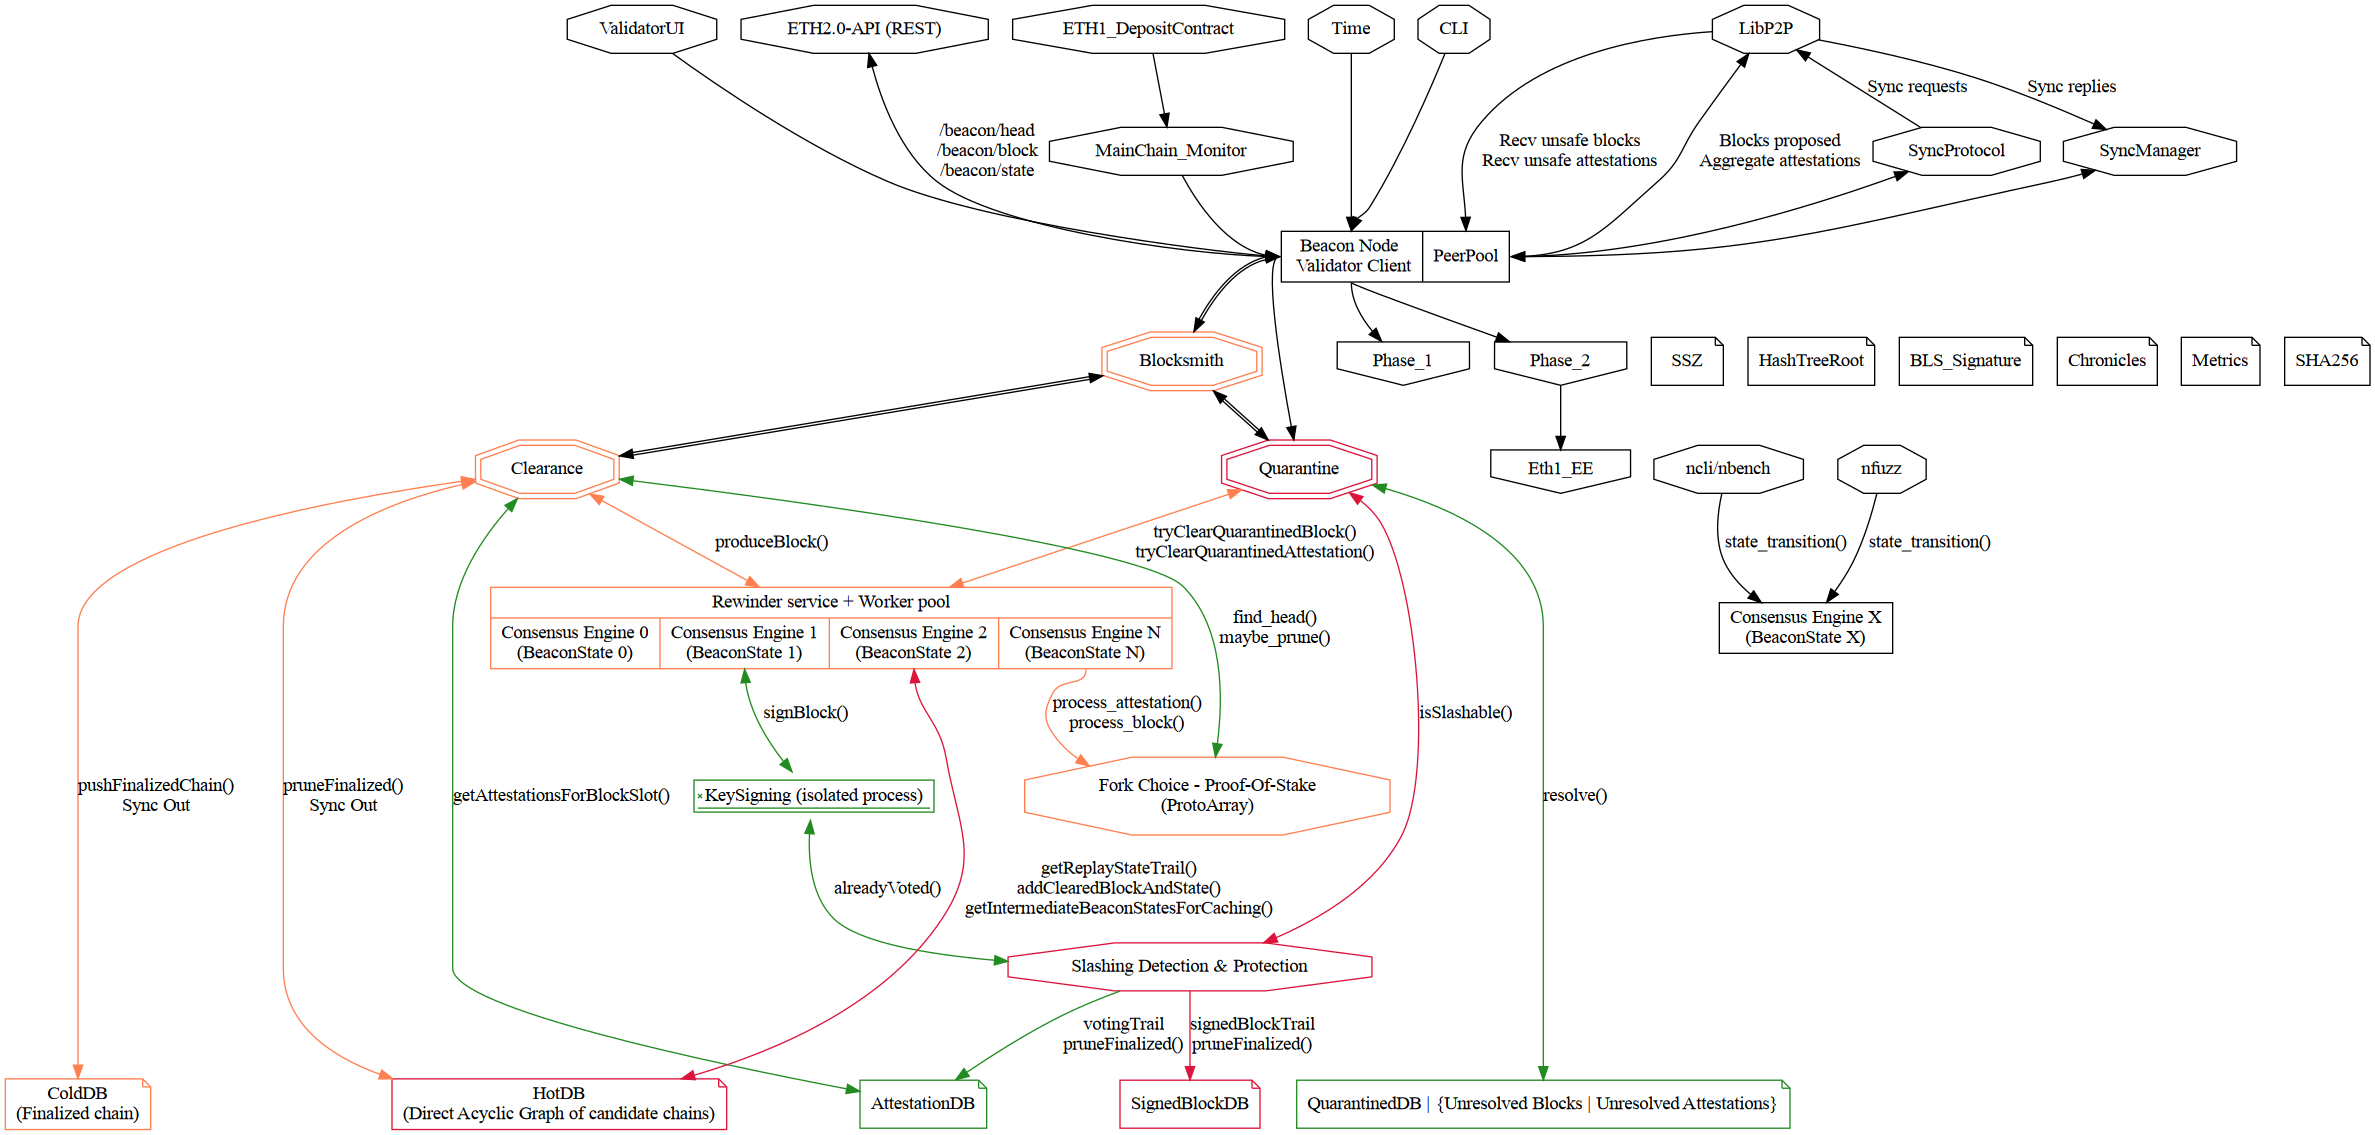
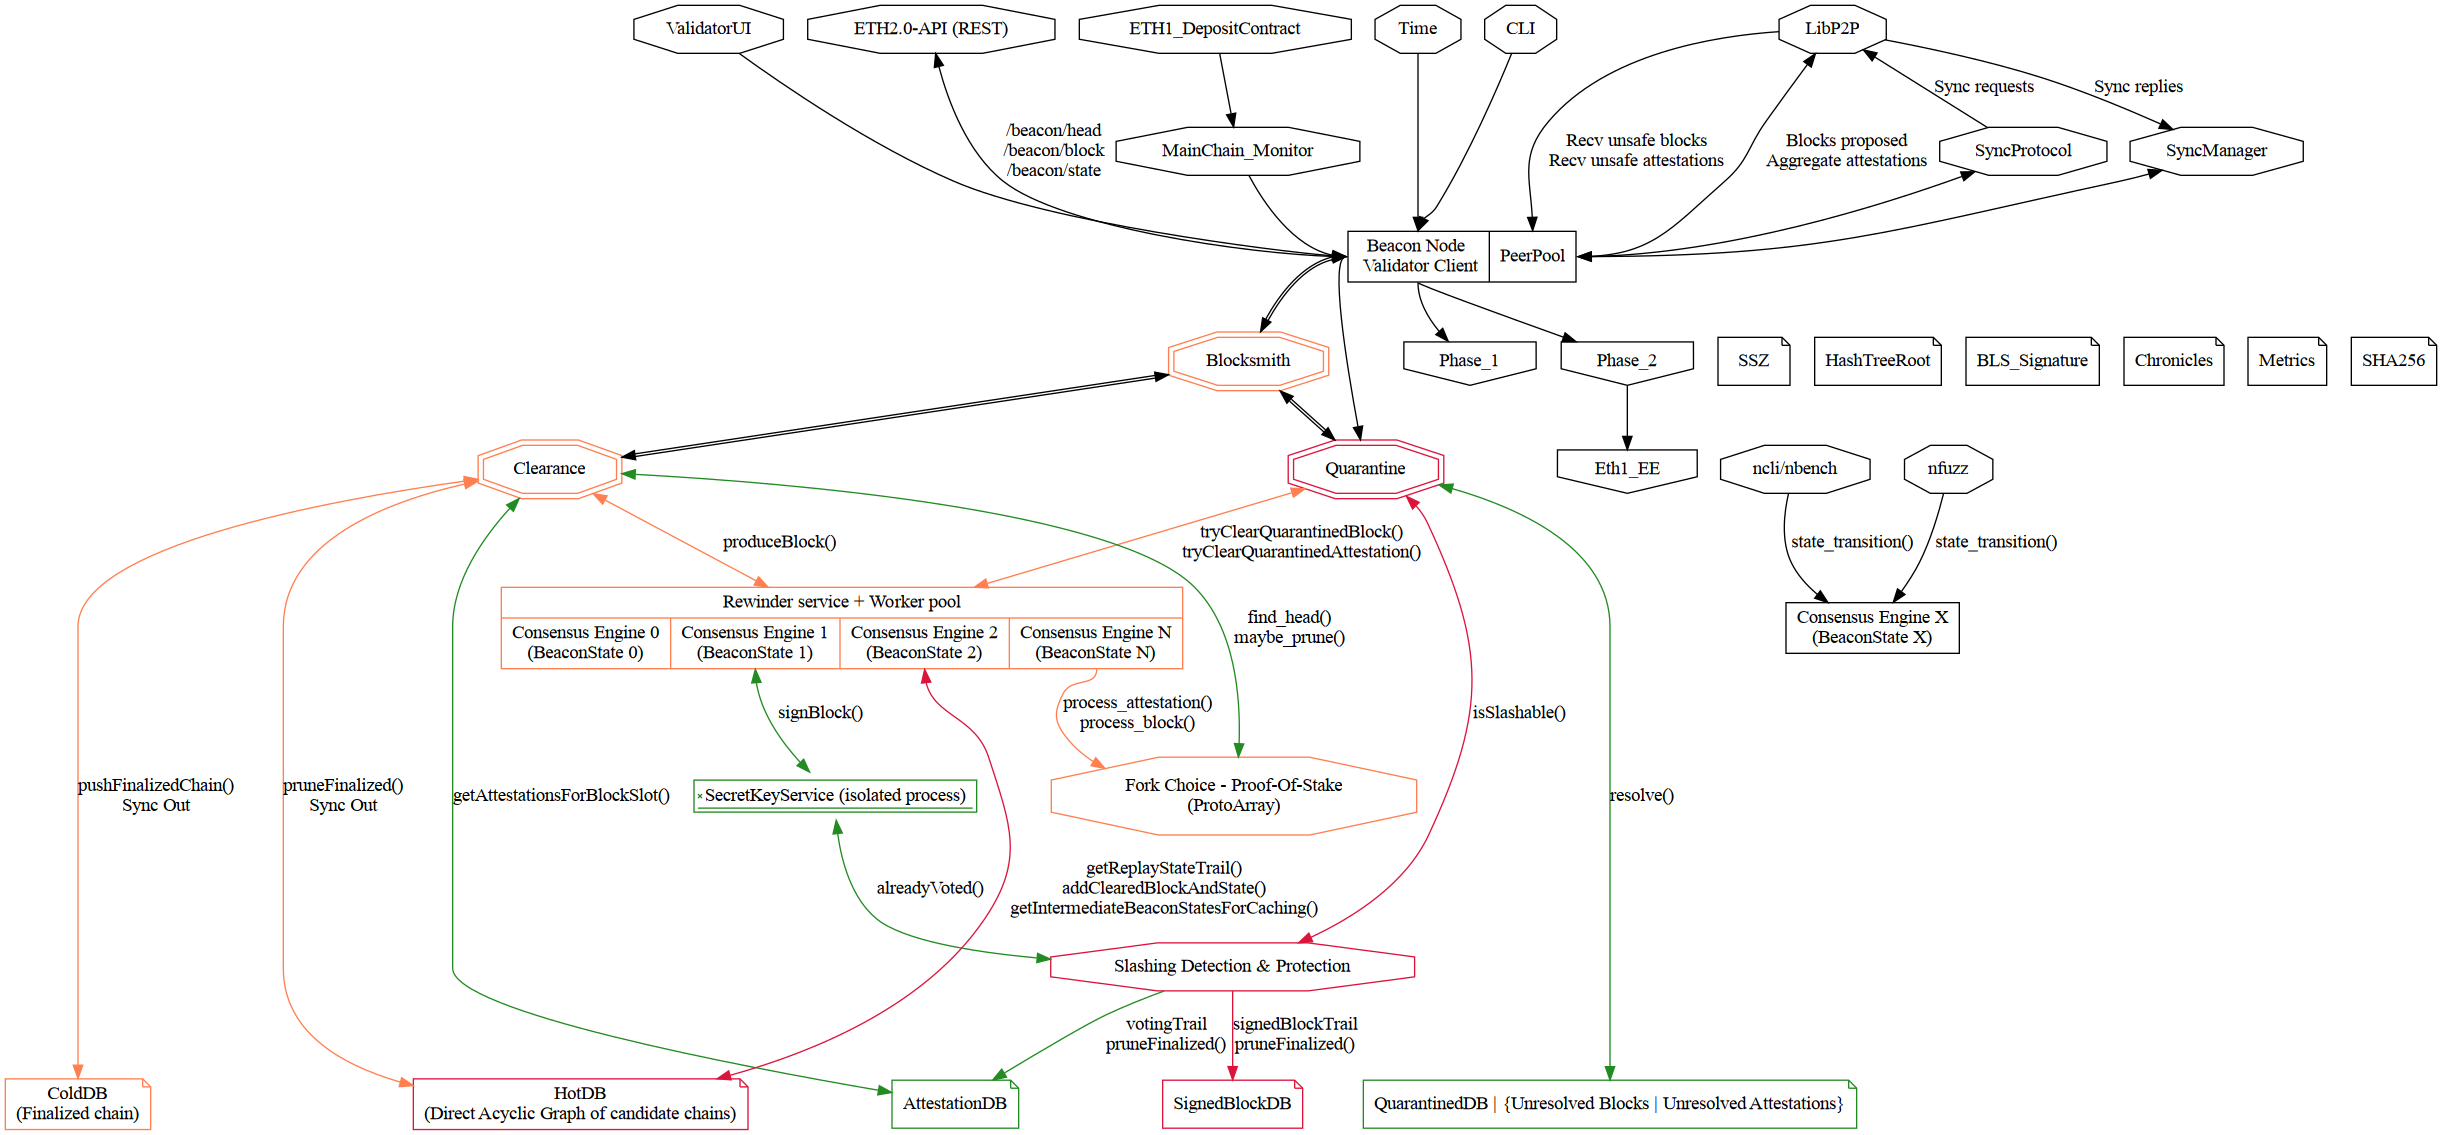
Add a secret key client for a remote signing service

diff --git a/beacon_validator.md b/beacon_validator.md
@@ -2,13 +2,16 @@
 
 ## Role
 
-The BeaconValidator handles all validator duties at slot start
+The BeaconValidator handles all validator duties at slot start.
+It is also the endpoint for the ValidatorUI.
+
+Note: it should never see private keys but for development purpose it allows a relaxed mode with in-process secret keys
 
 ## Remarks
 
 It is an async procedure that is scheduled at each slot start.
 It is a CPU intensive operation.
-It will require communicating with an isolated KeySigning service running on a separate process
+It will require communicating with an isolated SecretKeyService service running on a separate process
 
 ## Current API to replace
 
@@ -247,22 +250,85 @@ proc signBlockProposal*(v: AttachedValidator, fork: Fork,
 
 ```Nim
 type
+  ValidatorKeyManagementMode = enum
+    strictOutOfProcess  # Only out of process secret keys are allowed
+    relaxedInProcess    # In-process and out-of-process secret keys are allowed
+
+const SecretKeyManagement* {.strdefine.} = "relaxed" # for development
+when SecretKeyManagement != "strict":
+  {.warning: "Validator secret keys may be stored in-process and not isolated, consider building with -d:SecretKeyManagement=strict."}
+  warn "Validator secret keys may be stored in-process and not isolated, consider building with -d:SecretKeyManagement=strict.",
+    cat "security"
+
+type
   ClearedBlock = distinct SignedBeaconBlock
 
+  IncomingSigningRequest* = tuple[
+    sigReturnChannel: ptr Channel[StringOfJson], # ValidatorSig
+    pubkey_signingRoot_pair: StringOfJson             # tuple[pubKey: ValidatorPubkey, signing_root: Eth2Digest]
+  ]
+
+  OutgoingSigningResponse* = tuple[
+    pendingSig: Future[StringOfJson], # ValidatorSig
+    sigReturnChannel: ptr Channel[StringOfJson], # ValidatorSig
+    available: bool
+  ]
+
+  AttachedValidatorRequest* = tuple[
+    respChannel: Channel[bool],
+    validator: ValidatorPubKey
+  ]
+
+  SecretKeyClient = ptr object
+    ## A secure connection to a (usually remote) secret key signing service which implements
+    ## ```
+    ## proc attachValidator(server: SecretKeyServer, keyFile: string) =
+    ##   ## TODO, how to provide a secure way to encrypt/decrypt the keyfile
+    ##   service.loadFrom(keyFile)
+    ##
+    ## proc detachValidator(server: SecretKeyServer, pubkey: ValidatorPubKey) =
+    ##   service.remove(pubkey)
+    ##
+    ## proc blsSign(server: SecretKeyServer, returnTransport: StreamTransport, pubkey: ValidatorPubKey, message: openarray[byte]) {.async.} =
+    ##   let secretKey = server.retrieveSecretFrom(pubkey)
+    ##   let sig = blsSign(secretKey, message)
+    ##   result = returnTransport.write(sig.unsafeAddr, sizeof(ValidatorSig))
+    ## ```
+    attachedValidators: HashSet[ValidatorPubKeys]
+    when SecretKeyManagement == "strict":
+      remote: RpcSocketClient
+    else: # relaxed
+      case keyManagement: ValidatorKeyManagement
+      of strictOutOfProcess:
+        remote: RpcSocketClient
+      of relaxedInProcess:
+        secretMap: Table[ValidatorPubKey, ValidatorPrivKey]
+
+    ## Tasks channels
+    inSigningRequests: ptr AsyncChannel[IncomingSigningRequest]
+    inIsAttachedValidator: ptr AsyncChannel[tulChannel[bool], ValidatorPubKey)]
+
+    ## Response channels
+    outSigningResponses: seq[OutgoingSigningResponse]
+
+    shutdown: Atomic[bool]
+
   BeaconValidator = ptr object
-    keySigning: KeySigning # The key signing service.
-    rewinder: Rewinder     # The state handling service (multithreaded)
-    network: Eth2Node      # Network, for broadcasting (TODO: ref object, should be ptr?)
+    validatorUIendpoint: RpcServer     # API for the validator UI
+    keySigning: SecretKeyClient        # The key signing service.
+    rewinder: Rewinder                 # The state handling service (multithreaded)
+    network: Eth2Node                  # Network, for broadcasting (TODO: ref object, should be ptr?)
     mainChainMonitor: MainchainMonitor # Eth1 deposit contract (TODO: ref object, should be ptr? + should be made a service or at least threadsafe `getBlockProposalData`)
 
     # Config
     conf: BeaconNodeConf # have a specific ValidatorNodeConf that is a subset of BeaconNodeConf?
 
-    # Result channels
-    blockProposalChan: ptr Channel[ClearedBlock]
+template deref*(T: typedesc): typedesc =
+  ## Return the base object type behind a ptr type
+  typeof(default(T)[])
 
-proc init(beaconValidator: BeaconValidator, rewinder: Rewinder, keySigning: KeySigning, network: Eth2Node, mainChainMonitor: MainchainMonitor, conf: BeaconNodeConf) =
-  # We assume that KeySigning is a ptr object
+proc init(beaconValidator: BeaconValidator, rewinder: Rewinder, keySigning: SecretKeyClient, network: Eth2Node, mainChainMonitor: MainchainMonitor, conf: BeaconNodeConf) =
+  # We assume that SecretKeyService is a ptr object
   # TODO: Currently Eth2Node is a ref object, but it should probably be a ptr object or
   # - Can we use ptr ref object?
   # - We need an intermediate object with a stable address that can be called across threads.
@@ -272,4 +338,73 @@ proc init(beaconValidator: BeaconValidator, rewinder: Rewinder, keySigning: KeyS
   beaconValidator.network = network
   beaconValidator.mainChainMonitor = mainCHainMonitor
   beaconValidator.conf = conf
+
+proc init(keySigning: SecretKeyClient, address: string, port: Port) =
+  doAssert not keySigning.isNil, "The key signing service should be allocated, key management kind (remote/in-process) should be set and shutdown state should be true at startup"
+  doAssert keySigning.shutdown, "The key signing service should start from the shutdown state"
+  when SecretKeyManagement == "strict":
+    waitFor keySigning.remote.connect(address, port)
+  else:
+    case keyManagement # This is set on thread start, before calling init
+    of strictOutOfProcess:
+      waitFor keySigning.remote.connect(address, port)
+    of relaxedInProcess:
+      discard
+
+  keySigning.shutdown.store(false, moRelaxed)
+
+proc init(signingRespChannel: var OutgoingSigningResponse) =
+  stateRespChannel.available = true
+
+proc findAvailableResponseChannel(signingRespChannel: var OutgoingSigningResponse): int =
+  ## Find an available channel, creating a new one if needed
+
+  let len = signingRespChannel.len
+  for i in 0 ..< len:
+    if signingRespChannel[i].available:
+      return i
+
+  # No available channel found
+  signingRespChannel.setLen(len + 1)
+  signingRespChannel[len].init()
+  return len
+
+proc eventLoopSigning(keySigning: SecretKeyClient, address: string, port: Port) =
+  keySigning.init()
+
+  var signingRequests = keySigning.inSigningRequests.recv()
+  var queryAttachedValidator = keySigning.inIsAttachedValidator.recv()
+
+  while not keySigning.shutdown.load(moRelaxed):
+    if signingRequests.finished(): # For now assuming remote validator
+      let req = signingRequests.get()
+      let futSign = keySigning.remote.call("blsSign", req.pubkey_signingRoot_pair)
+      let chanIdx = findAvailableResponseChannel(keySigning.outSigningResponses)
+      doAssert keySigning.outSigningResponses[chanIdx].available
+      keySigning.outSigningResponses[chanIdx].available = false
+      keySigning.outSigningResponses[chanIdx].pendingSig = futSign
+      keySigning.outSigningResponses[chanIdx].sigReturnChannel = req.sigReturnChannel
+
+      # Listen to next request
+      signingRequests = keySigning.inSigningRequests.recv()
+
+    if queryAttachedValidator.finished():
+      let query = queryAttachedValidator.get()
+      doAssert respChannel.ready, "Oops, the response channel should never block."
+      query.respChannel.send keySigning.attachedValidators.contains(query.validator)
+
+      # Listen to next request
+      queryAttachedValidator = keySigning.inIsAttachedValidator.recv()
+
+    poll()
+
+    for i in 0 ..< keySigning.outSigningResponses.len:
+      if not keySigning.outSigningResponses[i].available:
+        if keySigning.outSigningResponses[chanIdx].pendingSig.finished():
+          req.sigReturnChannel.send keySigning.outSigningResponses[chanIdx].pendingSig.get()
+          keySigning.outSigningResponses[chanIdx].pendingSig = nil
+          keySigning.outSigningResponses[chanIdx].sigReturnChannel = nil
+          keySigning.outSigningResponses[chanIdx].available = true
+
+  keySigning.teardown()
 ```

diff --git a/rewinder.md b/rewinder.md
@@ -12,6 +12,13 @@ It interacts with the following services:
   - to validate an attestation
 - the "BeaconRPC" service
   - to answer RPC queries that require state handling
+- the "BeaconValidator" service
+  - to produce, sign, store, broadcast new blocks
+  - to handle validator duties, BeaconValidator should
+    pass a pointer to
+    - the Eth1 MainChainMonitor
+    - the SecretKeyService service (ValidatorPool + the link to out-of-process signing service)
+    - the network Eth2Node
 
 It is the only module that apply `state_transition()`. Furthermore the only other module that deal with `BeaconState` is the HotDB but only with raw copyMem. This is an important properties with the following benefits:
 - BeaconState is costly both in term of memory and CPU. We can focus the target of our optimizations.
@@ -70,7 +77,7 @@ type
 
 const RewinderEnvSize = max(
   # proposeBlock
-  sizeof(Rewinder) + sizeof(KeySigning) +
+  sizeof(Rewinder) + sizeof(SecretKeyService) +
     sizeof(MainChainMonitor) + sizeof(Eth2Node) +
     sizeof(Slot),
   0 # other cross-service calls
@@ -110,13 +117,13 @@ type
     # The channel sent to the HotDB to answer `getReplayStateTrail` queries
     stateTrailChan: ptr Channel[StateTrail]
     # The channel sent to the HotDB for head block + state queries
-    currentHeadChan: ptr Channel[tuple[blockDAGnode: BlockDAGnode, state: BeaconState]
+    currentHeadChan: ptr Channel[tuple[blockDAGnode: BlockDAGnode, state: BeaconState]]
     # The channel sent to the MainchainMonitor for Eth1Data + Deposits queries
     eth1MonitorChan: ptr Channel[tuple[eth1data: Eth1Data, deposits: seq[Deposit]]
-    # The channel sent to the KeySigning service
+    # The channel sent to the SecretKeyService service
     # Used for both block signature and RandaoReveal
     signingChan: ptr Channel[ValidatorSig]
-    # The channel sent to the KeySigning service
+    # The channel sent to the SecretKeyService service
     # used to check
     # - if the passed validator is attached to the beacon node
     # - if we are already signed for this slot
@@ -135,12 +142,26 @@ proc init(worker: RewinderWorker, supervisor: Rewinder, workerID: WorkerID) =
 
   worker.supervisor = supervisor
   worker.workerID = workerID
-  worker.inTasks = createShared(Channel[RewinderTask])
+  worker.inTasks = createSharedU(Channel[RewinderTask])
   worker.inTasks.open(maxItems = 0)
   worker.hotDB = supervisor.hotDB
   worker.forkChoice = supervisor.forkChoice
-  worker.stateTrailChan = createShared(Channel[tuple[startState: BeaconState, blocks: seq[SignedBeaconBlock]]])
-  worker.stateTrailChan.open(maxItems = 1) # We never request more than 1 stateTrail
+
+  # Result channel
+  worker.stateTrailChan = createSharedU(Channel[StateTrail])
+  worker.currentHeadChan = createSharedU(Channel[tuple[blockDAGnode: BlockDAGnode, state: BeaconState]])
+  worker.eth1MonitorChan = createSharedU(Channel[tuple[eth1data: Eth1Data, deposits: seq[Deposit]])
+  worker.signingChan = createSharedU(Channel[ValidatorSig])
+  worker.boolChan = createSharedU(Channel[bool])
+  worker.attChan = createSharedU(Channel[seq[Attestation]])
+
+  # We never request more than 1 result at a time
+  worker.stateTrailChan.open(maxItems = 1)
+  worker.currentHeadChan.open(maxItems = 1)
+  worker.eth1MonitorChan.open(maxItems = 1)
+  worker.signingChan.open(maxItems = 1)
+  worker.boolChan.open(maxItems = 1)
+  worker.attChan.open(maxItems = 1)
 
   # Signal ready
   worker.ready.store(true, moRelease)
@@ -368,13 +389,13 @@ It accepts a target slot and then handles:
   and which
 - Retrieving Eth1Data
 - Produce the BeaconBlock
-- Send the unsigned block to the KeySigning process
+- Send the unsigned block to the SecretKeyService process
 - Retrieve the newly signed block and its slashing protection status
 - Add it to the HotDB
 - Add it to the fork choice
 - SSZ Dump it
 
-This is completely non-blocking compared to the current NBC implementation.
+This is will not block the Chronos timer thread compared to the current NBC implementation.
 It also avoids rewinding in both `handleProposal` (via `getProposer`) and `proposeBlock`.
 
 #### Current limitations
@@ -416,7 +437,7 @@ mainchain_monitor.getBlockProposalData() uses a whole BeaconState for:
 #### Implementation
 
 ```nim
-proc getValidatorOnDuty(rewinder: RewinderWorker, keySigning: KeySigning, state: BeaconState): Option[ValidatorPubKey] =
+proc getValidatorOnDuty(rewinder: RewinderWorker, keySigning: SecretKeyService, state: BeaconState): Option[ValidatorPubKey] =
   ## Get the public key of a validator on block proposal duty
   ## if any
   var cache = get_empty_per_epoch_cache()
@@ -435,7 +456,7 @@ proc getValidatorOnDuty(rewinder: RewinderWorker, keySigning: KeySigning, state:
 
   let validatorOnDuty = state.validators[proposerIdx.get()].pubkey
 
-  # Check if one of ours. The "KeySigning" service also takes over the ValidatorPool role.
+  # Check if one of ours. The "SecretKeyService" service also takes over the ValidatorPool role.
   doAssert rewinder.boolChan.ready
   keySigning.isAttachedValidator(rewinder.boolChan, validatorOnDuty)
 
@@ -453,7 +474,7 @@ proc getValidatorOnDuty(rewinder: RewinderWorker, keySigning: KeySigning, state:
 proc proposeBlockWhenValidatorDutyWorker(
        # No result channel, all block production duties are completely delegated
        rewinder: RewinderWorker,
-       keySigning: KeySigning,
+       keySigning: SecretKeyService,
        mainChainMonitor: MainChainMonitor,
        network: Eth2Node
        slot: Slot
@@ -468,7 +489,7 @@ proc proposeBlockWhenValidatorDutyWorker(
   ##   and which
   ## - Retrieving Eth1Data
   ## - Produce the BeaconBlock
-  ## - Send the unsigned block to the KeySigning process
+  ## - Send the unsigned block to the SecretKeyService process
   ## - Retrieve the newly signed block and
   ##   its slashing protectionstatus
   ## - Add it to the HotDB
@@ -549,7 +570,7 @@ proc proposeBlockWhenValidatorDutyWorker(
   doAssert rewinder.boolChan.ready
   keySigning.signBlockProposal(
     rewinder.signingChan,
-    # Slashing protection, the KeySigning service can pass it along to the Slashing Protection service
+    # Slashing protection, the SecretKeyService service can pass it along to the Slashing Protection service
     # to overlap both signing and Slashing Protection as we expect double-signing to be rare.
     rewinder.boolChan,
     validator,
@@ -610,7 +631,7 @@ type ProposeBlockWhenValidatorDutyTask = ptr object
   env: tuple[
     # No result channel, all block production duties are completely delegated
     rewinder: Rewinder,
-    keySigning: KeySigning,
+    keySigning: SecretKeyService,
     mainChainMonitor: MainChainMonitor,
     network: Eth2Node,
     slot: Slot
@@ -646,7 +667,7 @@ proc svc_proposeBlockWhenValidatorDuty(supervisor: Rewinder, task: ptr RewinderT
 template proposeBlockWhenValidatorDuty*(
       service: Rewinder,
       rewinder: Rewinder,
-      keySigning: KeySigning,
+      keySigning: SecretKeyService,
       mainChainMonitor: MainChainMonitor,
       network: Eth2Node,
       slot: Slot
@@ -662,7 +683,7 @@ template proposeBlockWhenValidatorDuty*(
   ## - Check if one of our attached validators is scheduled for proposal
   ## - Retrieving Eth1Data
   ## - Produce the BeaconBlock
-  ## - Send the unsigned block to the KeySigning process
+  ## - Send the unsigned block to the SecretKeyService process
   ## - Retrieve the newly signed block and
   ##   its slashing protectionstatus
   ## - Add it to the HotDB

diff --git a/public_routines.md b/public_routines.md
@@ -124,16 +124,16 @@ This is problematic for several reasons:
 This means that
 - `proposeBlock` in `beacon_node.nim` is split into
   - `produceBlock()` implemented in the Rewinder service
-  - `signBlock()` in the KeySigning isolated service
+  - `signBlock()` in the SecretKeyService isolated service
 - `handleAttestations`/`sendAttestations`/`signAttestation` are split into
   - `collectAttestationMetadata(...): seq[tuple[
     data: AttestationData, committeeLen, indexInCommittee: int,
     validator: AttachedValidator]]` in the Rewinder service
-  - `signAttestations()` in the KeySigning isolated service
+  - `signAttestations()` in the SecretKeyService isolated service
   - `sendAttestations()` in the Beacon Node service
 - `broadcastAggregatedAttestations` is split into
   - `getAggregateAndProofFor(BeaconBlock, Slot)` in the Rewinder service
-  - `signAggregateAndProof` in the KeySigning isolated service
+  - `signAggregateAndProof` in the SecretKeyService isolated service
 - `getBeaconState(slot: Option[Slot], root: Option[Eth2Digest]) -> StringOfJson` queries:
   - `getJsonEncodedStateFor(state_root: ClearedStateRoot, slot: Slot)`
 - `addLocalValidators` only uses BeaconState to warn if a validator is unknown in the state registry.

diff --git a/hotdb.md b/hotdb.md
@@ -147,7 +147,7 @@ The event loop should:
 
 > TODO:
 >   On `produceBlock()` + `signBlock()` we should also update the HotDB. However this would mean that the `Clearance` module manipulates state which is undesirable.
->   The RewinderWorkers can directly connect to the KeySigning service instead
+>   The RewinderWorkers can directly connect to the SecretKeyService service instead
 
 
 ```Nim
